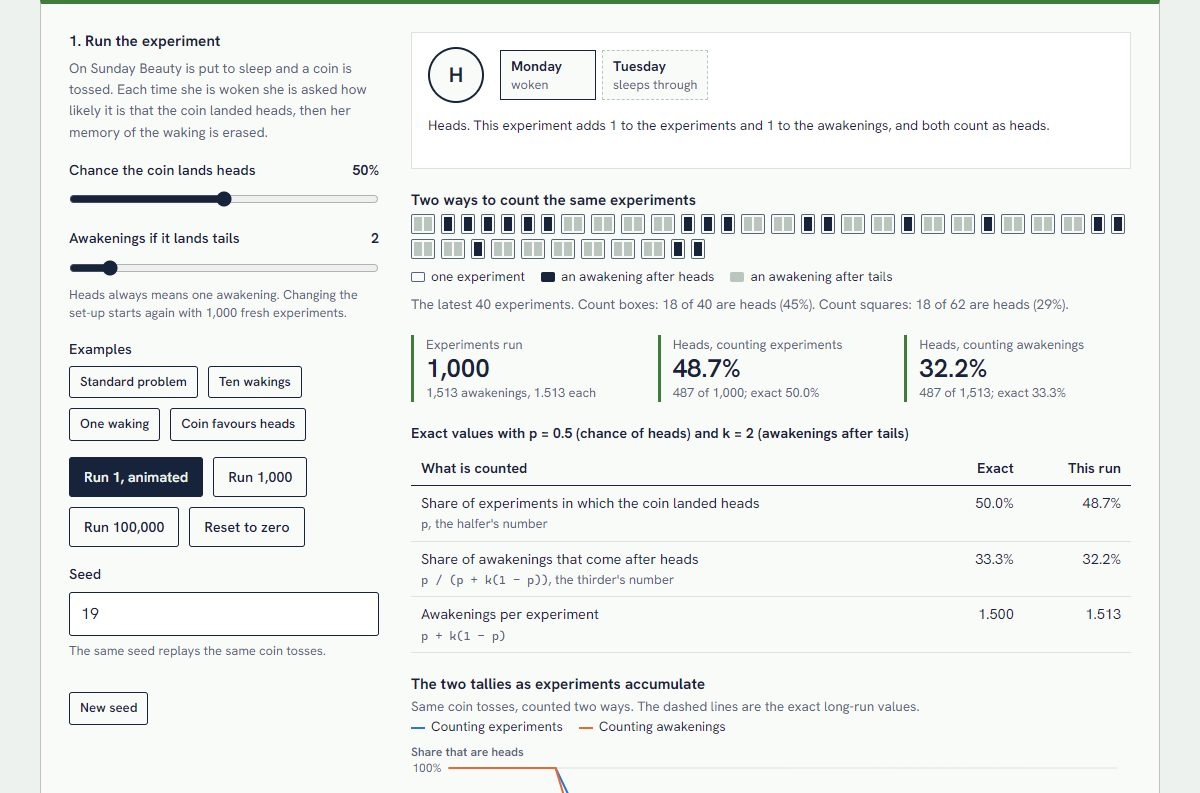
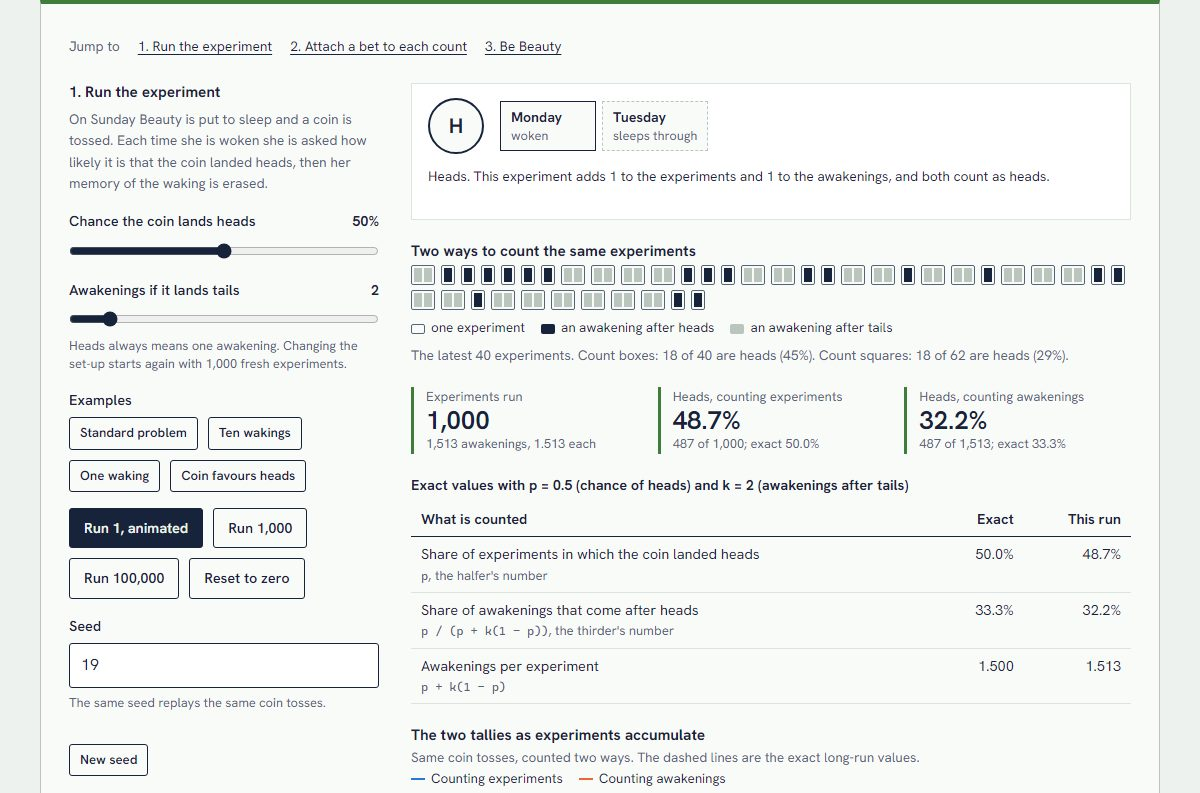
Review project 19: keyboard price steps, jump links, clearer scoring text

diff --git a/365projects/19/index.html b/365projects/19/index.html
@@ -11,6 +11,9 @@
   <link rel="stylesheet" href="../../assets/site.css">
   <link rel="stylesheet" href="../kit/kit.css">
   <style>
+    .sb-jump { display: flex; flex-wrap: wrap; gap: 4px 18px; align-items: baseline; }
+    .sb-jump a { padding: 4px 0; }
+    .sb-part h2 { scroll-margin-top: 12px; }
     .sb-part + .sb-part { border-top: 1px solid var(--rule); padding-top: 22px; }
     .sb-head { display: grid; gap: 6px; }
     .sb-stage { display: grid; grid-template-columns: auto minmax(0, 1fr); gap: 12px 16px; align-items: center; }
@@ -33,7 +36,9 @@
     .sb-tape .t i { background: var(--rule); }
     .sb-key i.sb-box { background: none; border: 1px solid var(--slate); }
     .sb-tbl .tbl th { white-space: normal; vertical-align: bottom; }
+    .sb-tbl .tbl td { position: relative; } /* keeps the screen-reader-only "(lowest)" inside its cell */
     .sb-f { display: block; font-size: 0.82rem; color: var(--slate); }
+    @media (max-width: 420px) { .p-sec .eq { font-size: 0.9em; } }
     /* The serif has no true italic, and the slanted letters lean into whatever follows them. */
     .p-sec var { margin-right: 0.1em; }
   </style>
@@ -59,7 +64,7 @@
       <p>On Sunday night Beauty is put to sleep and a fair coin is tossed. If it lands heads she is woken on Monday and the experiment ends. If it lands tails she is woken on Monday, given a drug that erases her memory of that waking, and woken again on Tuesday. She knows all of this in advance. Each time she wakes she is asked one question: how confident are you that the coin landed heads? Adam Elga put the problem to philosophers in 2000, crediting the name to Robert Stalnaker; a version had already appeared in Michele Piccione and Ariel Rubinstein's work on decisions with imperfect recall.</p>
       <p><strong>The thirder's argument</strong> is Elga's. There are three situations Beauty might be in when she wakes: heads and Monday, tails and Monday, tails and Tuesday. If she were told the coin landed tails, she would have no reason to favour Monday over Tuesday, so those two deserve equal confidence. If she were told it is Monday, the coin toss might as well not have happened yet (the experimenters could toss it on Monday night without changing anything she experiences), so heads and tails deserve equal confidence. Three situations, each as likely as the next: her credence in heads should be 1/3.</p>
       <p><strong>The halfer's argument</strong> is David Lewis's. On Sunday Beauty's credence in heads is 1/2, and everyone agrees it should be. Between Sunday and her waking she learns nothing she did not already expect: she was certain to be woken at least once whichever way the coin fell. Credences should change only in response to new evidence, and there is none that bears on the coin, so her credence should still be 1/2. Lewis accepted the cost of this view: if Beauty is then told it is Monday, a halfer who updates in the ordinary way becomes 2/3 confident in heads, for a fair coin that may not have been tossed yet.</p>
-      <p>The dispute matters because Beauty's uncertainty is of an unusual kind. She knows exactly how the world works. What she does not know is where she is in it: which day it is, and which waking this is. The same kind of <strong>self-locating belief</strong> appears whenever theories differ in how many observers like you they contain, which is why the problem keeps turning up in cosmology, in the Doomsday argument, and in arguments about whether we live in a simulation. It also tests what a credence is for. If a credence is a betting price, or a guess to be scored for accuracy, then it should matter how the bets and the scores are counted, and the tool shows that it does. What the tool cannot show is which way of counting is the right one for belief.</p>
+      <p>The dispute matters because Beauty's uncertainty is of an unusual kind. She knows exactly how the world works. What she does not know is where she is in it: which day it is, and which waking this is. The same kind of <strong>self-locating belief</strong> appears whenever theories differ in how many observers like you they contain, which is why the problem keeps turning up in cosmology and in the Doomsday argument. It also tests what a credence is for. If a credence is a betting price, or a guess to be scored for accuracy, then it should matter how the bets and the scores are counted, and the tool shows that it does. What the tool cannot show is which way of counting is the right one for belief.</p>
     </section>
 
     <section class="p-sec">
@@ -77,9 +82,9 @@
       <p class="eq"><var>p</var>(1 − <var>c</var>) − (1 − <var>p</var>)<var>k</var><var>c</var> = <var>p</var> − <var>c</var>(<var>p</var> + <var>k</var>(1 − <var>p</var>))</p>
       <p>which is zero at <var>c</var> = <var>p</var> / (<var>p</var> + <var>k</var>(1 − <var>p</var>)). So the first bet breaks even at the halfer's number and the second at the thirder's. The tool works out the realised profit from the two tallies, which is why moving the price re-prices the experiments already run instead of running new ones.</p>
       <h3>The scoring rule</h3>
-      <p>In part 3 an answer <var>x</var> is penalised by the Brier rule, (<var>x</var> − 1)² if the coin landed heads and <var>x</var>² if it landed tails. This rule is <em>proper</em>: against an ordinary chance <var>q</var> of heads, the expected penalty <var>q</var>(<var>x</var> − 1)² + (1 − <var>q</var>)<var>x</var>² is smallest at <var>x</var> = <var>q</var>, so it rewards saying what you believe. Because Beauty cannot tell her wakings apart she gives the same answer at each one. Scored once per experiment, and then at every awakening (averaged over awakenings), the expected penalty is</p>
-      <p class="eq">once per experiment: <var>p</var>(1 − <var>x</var>)² + (1 − <var>p</var>)<var>x</var>²<br>every awakening: [<var>p</var>(1 − <var>x</var>)² + <var>k</var>(1 − <var>p</var>)<var>x</var>²] / (<var>p</var> + <var>k</var>(1 − <var>p</var>))</p>
-      <p>Setting each derivative to zero gives <var>x</var> = <var>p</var> for the first and <var>x</var> = <var>p</var> / (<var>p</var> + <var>k</var>(1 − <var>p</var>)) for the second. The table scores your answer, the halfer's and the thirder's on the same simulated experiments.</p>
+      <p>In part 3 an answer <var>x</var> is penalised by the Brier rule, (<var>x</var> − 1)² if the coin landed heads and <var>x</var>² if it landed tails. This rule is <em>proper</em>: against an ordinary chance <var>q</var> of heads, the expected penalty <var>q</var>(<var>x</var> − 1)² + (1 − <var>q</var>)<var>x</var>² is smallest at <var>x</var> = <var>q</var>, so it rewards saying what you believe. Because Beauty cannot tell her wakings apart she gives the same answer at each one. Score that answer once per experiment and the expected penalty is the first line below. Score it at every awakening and tails counts <var>k</var> times: the expected total for an experiment is <var>p</var>(1 − <var>x</var>)² + <var>k</var>(1 − <var>p</var>)<var>x</var>², and dividing by the expected number of awakenings gives the long-run average penalty per awakening, the second line.</p>
+      <p class="eq">once per experiment:<br>&nbsp;&nbsp;&nbsp;<var>p</var>(1 − <var>x</var>)² + (1 − <var>p</var>)<var>x</var>²<br>every awakening:<br>&nbsp;&nbsp;&nbsp;[<var>p</var>(1 − <var>x</var>)² + <var>k</var>(1 − <var>p</var>)<var>x</var>²] / (<var>p</var> + <var>k</var>(1 − <var>p</var>))</p>
+      <p>Setting each derivative to zero gives <var>x</var> = <var>p</var> for the first and <var>x</var> = <var>p</var> / (<var>p</var> + <var>k</var>(1 − <var>p</var>)) for the second. The table scores your answer, the halfer's and the thirder's on the same simulated experiments, which part 3 draws from a generator of its own (the seed plus one). Its first two rows average the penalties over experiments and its last two over awakenings.</p>
       <h3>What each position says in general</h3>
       <p>The thirder gives every awakening equal standing, so heads-and-first-day has weight <var>p</var> and each of the <var>k</var> tails awakenings has weight 1 − <var>p</var>. That gives <var>p</var> / (<var>p</var> + <var>k</var>(1 − <var>p</var>)) on waking and <var>p</var> on being told it is the first day. The halfer keeps <var>p</var> on waking and spreads 1 − <var>p</var> evenly over the tails awakenings, which gives <var>p</var> / (<var>p</var> + (1 − <var>p</var>) / <var>k</var>) on being told it is the first day: 2/3 in the standard problem.</p>
     </section>
@@ -88,8 +93,8 @@
       <h2>What this cannot tell you</h2>
       <ul>
         <li><strong>Which answer is right.</strong> The simulation produces two frequencies and neither side disputes either of them. The disagreement is over which of them, if either, Beauty's degree of belief should equal, and no amount of counting settles that.</li>
-        <li><strong>That bets reveal credence.</strong> A halfer can turn down the 0.40 ticket at every awakening without changing her mind about the coin: she knows the bet will be placed twice if the coin landed tails, so it is one bet with stakes that depend on the outcome. Thirders reply that a credence which never shows up in fair betting prices is not doing its job. The tool shows the arithmetic both sides accept, not who is right about what it means.</li>
-        <li><strong>That accuracy settles it either.</strong> The scoring result is the counting result again. Minimising expected total inaccuracy across awakenings favours 1/3 and minimising expected average inaccuracy favours 1/2, as Kierland and Monton showed. Choosing between the two is the original question in different clothes.</li>
+        <li><strong>That bets reveal credence.</strong> A halfer can turn down the 0.40 ticket at every awakening without changing her mind about the coin: she knows the bet will be placed twice if the coin landed tails, so it is one bet with stakes that depend on the outcome. Bradley and Leitgeb argue that this is a case in which fair betting odds and credences come apart. Hitchcock argues the other way: a halfer who bets at her credence, once on Sunday and once at each awakening, can be made to lose whichever way the coin lands. The tool shows the arithmetic both sides accept, not who is right about what it means.</li>
+        <li><strong>That accuracy settles it either.</strong> The scoring result is the counting result again. Kierland and Monton showed that minimising the expected total inaccuracy over an experiment's awakenings favours 1/3, and minimising the expected average over them favours 1/2. Those are the tool's two scorings: the average within an experiment is the single penalty that scoring once per experiment counts, and the every-awakening rows are the total divided by the number of awakenings in the whole run, which has the same best answer as the total. Choosing between the two is the original question in different clothes.</li>
         <li><strong>Whether a one-off credence has to match a long-run frequency.</strong> In the story the experiment happens once. The tool repeats it a hundred thousand times and reads off shares. Whether a rational degree of belief in a single case must equal a frequency over imagined repetitions is itself contested.</li>
         <li><strong>Anything about the other positions.</strong> "Double halfers" hold that the answer is 1/2 both on waking and on being told it is Monday, and some writers argue the question is ambiguous as posed. The tool models only the two classic answers and does not simulate what Beauty should think once told the day.</li>
         <li><strong>How to reason in real anthropic cases.</strong> Here the number of awakenings on each branch is known exactly. In cosmology or the Doomsday argument, what counts as "an observer like me" is the hard part, and nothing here helps choose it.</li>
@@ -103,7 +108,7 @@
         <li>Play part 3 as Beauty would live it: wake the visitor again and again without saying which experiment each waking belongs to, and reveal everything only at the end.</li>
         <li>Walk through Hitchcock's Dutch book step by step, with one bet placed on Sunday and one at each awakening, to show which combinations of prices guarantee a loss.</li>
         <li>Add the logarithmic scoring rule next to the Brier rule and check that the two best answers do not move.</li>
-        <li>Model the variants: Bostrom's extreme version with a million awakenings, duplication instead of memory loss, and the absent-minded driver.</li>
+        <li>Model the variants: Bostrom's extreme version, in which tails means being woken on a million further days, duplication instead of memory loss, and the absent-minded driver.</li>
         <li>Let the visitor choose a decision theory as well as a credence. Briggs argues that whether a halfer or a thirder can be made to lose money depends on which decision theory the credence is paired with.</li>
       </ul>
     </section>
@@ -113,13 +118,13 @@
       <ul class="refs">
         <li>Elga, A. (2000). Self-locating belief and the Sleeping Beauty problem. <em>Analysis</em>, 60(2), 143-147.</li>
         <li>Lewis, D. (2001). Sleeping Beauty: reply to Elga. <em>Analysis</em>, 61(3), 171-176.</li>
-        <li>Piccione, M., and Rubinstein, A. (1997). On the interpretation of decision problems with imperfect recall. <em>Games and Economic Behavior</em>, 20, 3-24.</li>
-        <li>Hitchcock, C. (2004). Beauty and the bets. <em>Synthese</em>.</li>
-        <li>Kierland, B., and Monton, B. (2005). Minimizing inaccuracy for self-locating beliefs. <em>Philosophy and Phenomenological Research</em>.</li>
-        <li>Bradley, D., and Leitgeb, H. (2006). When betting odds and credences come apart: more worries for Dutch book arguments. <em>Analysis</em>.</li>
-        <li>Bostrom, N. (2007). Sleeping Beauty and self-location: a hybrid model. <em>Synthese</em>.</li>
-        <li>Briggs, R. (2010). Putting a value on Beauty. In <em>Oxford Studies in Epistemology</em>, volume 3.</li>
-        <li>Titelbaum, M. G. (2013). Ten reasons to care about the Sleeping Beauty problem. <em>Philosophy Compass</em>.</li>
+        <li>Piccione, M., and Rubinstein, A. (1997). On the interpretation of decision problems with imperfect recall. <em>Games and Economic Behavior</em>, 20(1), 3-24.</li>
+        <li>Hitchcock, C. (2004). Beauty and the bets. <em>Synthese</em>, 139(3), 405-420.</li>
+        <li>Kierland, B., and Monton, B. (2005). Minimizing inaccuracy for self-locating beliefs. <em>Philosophy and Phenomenological Research</em>, 70(2), 384-395.</li>
+        <li>Bradley, D., and Leitgeb, H. (2006). When betting odds and credences come apart: more worries for Dutch book arguments. <em>Analysis</em>, 66(2), 119-127.</li>
+        <li>Bostrom, N. (2007). Sleeping Beauty and self-location: a hybrid model. <em>Synthese</em>, 157(1), 59-78.</li>
+        <li>Briggs, R. (2010). Putting a value on Beauty. In <em>Oxford Studies in Epistemology</em>, volume 3, 3-34. Oxford University Press.</li>
+        <li>Titelbaum, M. G. (2013). Ten reasons to care about the Sleeping Beauty problem. <em>Philosophy Compass</em>, 8(11), 1003-1017.</li>
       </ul>
     </section>
   </main>

diff --git a/365projects/19/app.js b/365projects/19/app.js
@@ -20,7 +20,9 @@ let last = null; // the latest finished experiment
 let anim = null; // a single experiment being played out: { timers, finish }
 let me;         // part 3: { r, tally, text }
 
-const head = (title, text) => el("div", { class: "sb-head" }, el("h3", { text: title }), el("p", { class: "small muted", text }));
+// Each part starts with a heading that the jump links at the top of the tool point to.
+const PARTS = [["sb-run", "1. Run the experiment"], ["sb-bets", "2. Attach a bet to each count"], ["sb-beauty", "3. Be Beauty"]];
+const head = (i, text) => el("div", { class: "sb-head" }, el("h2", { id: PARTS[i][0], text: PARTS[i][1] }), el("p", { class: "small muted", text }));
 
 /* ================================================= 1. the experiment */
 
@@ -46,7 +48,9 @@ seedField.input.addEventListener("input", () => {
 
 const coin = el("div", { class: "sb-coin", "aria-hidden": "true", text: "?" });
 const days = el("div", { class: "sb-days" });
-const caption = el("p", { class: "sb-cap small", role: "status" });
+const caption = el("p", { class: "sb-cap small" });
+// Announced to screen readers once per run. The caption changes at every step of the animation, which is too often.
+const said = el("p", { class: "sr-only", role: "status" });
 const tape = el("div", { class: "sb-tape", role: "img" });
 const tapeCap = el("p", { class: "small muted" });
 const sN = stat("Experiments run");
@@ -57,7 +61,7 @@ const convBox = el("div");
 
 const part1 = el("div", { class: "tool-grid sb-part" },
   el("div", { class: "controls" },
-    head("1. Run the experiment", "On Sunday Beauty is put to sleep and a coin is tossed. Each time she is woken she is asked how likely it is that the coin landed heads, then her memory of the waking is erased."),
+    head(0, "On Sunday Beauty is put to sleep and a coin is tossed. Each time she is woken she is asked how likely it is that the coin landed heads, then her memory of the waking is erased."),
     pSlider.el, kSlider.el,
     el("div", { class: "field" }, el("div", { class: "lab" }, el("span", { text: "Examples" })),
       el("div", { class: "row" }, preset("Standard problem", 0.5, 2), preset("Ten wakings", 0.5, 10), preset("One waking", 0.5, 1), preset("Coin favours heads", 0.8, 2))),
@@ -69,7 +73,7 @@ const part1 = el("div", { class: "tool-grid sb-part" },
     seedField.el, seedMsg,
     el("div", { class: "row" }, button("New seed", () => { state.seed = randomSeed(); seedField.value = state.seed; seedMsg.replaceChildren(); restart(); }, { small: true }))),
   el("div", { class: "out" },
-    el("div", { class: "panel sb-stage" }, coin, days, caption),
+    el("div", { class: "panel sb-stage" }, coin, days, caption), said,
     el("div", {}, el("p", { class: "chart-title", text: "Two ways to count the same experiments" }), tape,
       el("div", { class: "chart-legend sb-key" },
         el("span", {}, el("i", { class: "sb-box" }), "one experiment"),
@@ -162,6 +166,9 @@ function renderRun() {
   sN.set(fmt.int(n), n ? `${fmt.int(t.awakenings)} awakenings, ${fmt.num(t.awakenings / n, 3)} each` : "run one to begin");
   sE.set(pct1(s.byExperiment), n ? `${fmt.int(t.heads)} of ${fmt.int(n)}; exact ${pct1(x.byExperiment)}` : `exact ${pct1(x.byExperiment)}`);
   sA.set(pct1(s.byAwakening), n ? `${fmt.int(t.headsAwakenings)} of ${fmt.int(t.awakenings)}; exact ${pct1(x.byAwakening)}` : `exact ${pct1(x.byAwakening)}`);
+  said.textContent = n
+    ? `${fmt.int(n)} ${n === 1 ? "experiment" : "experiments"} run, the latest ${last.heads ? "heads" : "tails"}. Heads in ${pct1(s.byExperiment)} of experiments and ${pct1(s.byAwakening)} of awakenings.`
+    : "No experiments yet.";
 
   // The tape: one outlined box per experiment, one square per awakening.
   const rec = run.recent;
@@ -199,7 +206,7 @@ function renderRun() {
 /* ======================================================== 2. the bets */
 
 const priceSlider = slider({
-  label: "Price of the ticket", min: 0.01, max: 0.99, step: "any", value: state.price, format: price3,
+  label: "Price of the ticket", min: 0.01, max: 0.99, step: 0.001, value: state.price, format: price3,
   hint: "The ticket pays 1 if the coin landed heads and nothing if it landed tails.",
   onInput: (v) => { state.price = v; renderBets(); },
 });
@@ -210,7 +217,7 @@ const betChartBox = el("div");
 
 const part2 = el("div", { class: "tool-grid sb-part" },
   el("div", { class: "controls" },
-    head("2. Attach a bet to each count", "Beauty is offered a ticket on heads. Sell it to her once per experiment, or at every awakening: the experiments above are the same, only the number of tickets changes."),
+    head(1, "Beauty is offered a ticket on heads. Sell it to her once per experiment, or at every awakening: the experiments above are the same, only the number of tickets changes."),
     priceSlider.el,
     el("div", { class: "row" },
       button("Halfer's price", () => setPrice(exact(setup()).byExperiment), { small: true }),
@@ -220,7 +227,7 @@ const part2 = el("div", { class: "tool-grid sb-part" },
 
 const betChart = chart(betChartBox, {
   title: "Expected profit per experiment at each ticket price",
-  subtitle: "Exact. Each line crosses zero at the price where that bet breaks even.",
+  subtitle: "Exact. The dot on each line marks the price where that bet breaks even.",
   label: "Line chart of Beauty's expected profit per experiment against the ticket price, for each way of selling the ticket",
   height: 280,
   x: { label: "Ticket price", domain: [0, 1], format: (v) => fmt.num(v, 2) },
@@ -255,16 +262,15 @@ function renderBets() {
 
   const A = exact(setup()).awakenings;
   const xs = Array.from({ length: 101 }, (_, i) => i / 100);
-  const label = (v, above) => ({ type: "text", x: v, y: 0, text: price3(v), anchor: v > 0.85 ? "end" : "start", dx: v > 0.85 ? -8 : 8, dy: above ? -9 : 18 });
   betChart.update({
     series: [
-      { name: "One ticket per experiment", data: xs.map((c) => [c, state.p - c]), color: 0 },
-      { name: "One ticket at every awakening", data: xs.map((c) => [c, state.p - c * A]), color: 1 },
+      { name: `One ticket per experiment: breaks even at ${price3(hi)}`, data: xs.map((c) => [c, state.p - c]), color: 0 },
+      { name: `One ticket at every awakening: breaks even at ${price3(lo)}`, data: xs.map((c) => [c, state.p - c * A]), color: 1 },
     ],
     marks: [
       { type: "vline", x: state.price, text: `price ${price3(state.price)}` },
-      { type: "point", x: hi, y: 0 }, label(hi, true),
-      ...(same(lo, hi) ? [] : [{ type: "point", x: lo, y: 0 }, label(lo, false)]),
+      { type: "point", x: hi, y: 0 },
+      ...(same(lo, hi) ? [] : [{ type: "point", x: lo, y: 0 }]),
     ],
   });
 }
@@ -283,7 +289,7 @@ const scoreChartBox = el("div");
 
 const part3 = el("div", { class: "tool-grid sb-part" },
   el("div", { class: "controls" },
-    head("3. Be Beauty", "You have just been woken. You do not know what day it is, or whether you have been woken before. Give your answer, then see how it scores when each experiment is scored once and when every awakening is scored."),
+    head(2, "You have just been woken. You do not know what day it is, or whether you have been woken before. Give your answer, then see how it scores when each experiment is scored once and when every awakening is scored."),
     credSlider.el,
     el("div", { class: "row" },
       button("Lock in and reveal", () => lockIn(1), { primary: true }),
@@ -310,7 +316,7 @@ function lockIn(times) {
   if (times > 1) me.text = `${fmt.int(times)} more experiments played. Move the slider to see how any other answer would have scored on the same coin tosses.`;
   else if (e.heads) me.text = `The coin landed heads, so that was your only awakening. Your penalty is ${sum}, and it counts once whichever way the scoring is done.`;
   else if (e.awakenings === 1) me.text = `The coin landed tails, and with this set-up tails also means one awakening. Your penalty is ${sum}, counted once either way.`;
-  else me.text = `The coin landed tails. You were woken ${e.awakenings} times and, remembering nothing, gave the same answer each time. Each answer costs ${sum}. Scored once for the experiment that is ${fmt.num(pen, 3)}; scored at every awakening it is ${e.awakenings} × ${fmt.num(pen, 3)} = ${fmt.num(e.awakenings * pen, 3)}.`;
+  else me.text = `The coin landed tails. You were woken ${e.awakenings} times and, remembering nothing, gave the same answer each time. Each answer costs ${sum}. Scored once for the experiment, that is one penalty of ${fmt.num(pen, 3)}; scored at every awakening, it is ${e.awakenings} penalties of ${fmt.num(pen, 3)}.`;
   renderBeauty();
 }
 
@@ -322,7 +328,7 @@ function renderBeauty() {
   const answers = [state.credence, x.halfer.waking, x.thirder.waking];
   const row = (q, values) => {
     const best = Math.min(...values);
-    const [you, half, third] = values.map((v) => (v == null ? "–" : el(v - best < 1e-12 ? "strong" : "span", { text: fmt.num(v, 3) })));
+    const [you, half, third] = values.map((v) => (v == null ? "–" : (v - best < 1e-12 ? el("strong", {}, fmt.num(v, 3), el("span", { class: "sr-only", text: " (lowest)" })) : fmt.num(v, 3))));
     return { q, you, half, third };
   };
   const sim = answers.map((a) => brierTally(t, a)), long = answers.map((a) => brierExact(setup(), a));
@@ -338,25 +344,27 @@ function renderBeauty() {
   }));
   scoreMsg.replaceChildren(note("", same(x.halfer.waking, x.thirder.waking)
     ? `With one awakening either way there is nothing to disagree about: the best answer is ${pct1(x.halfer.waking)} under both scorings.`
-    : `Because you cannot tell one waking from another, your answer is the same every time, so each row is one fixed answer scored on every experiment played so far. In the long run the lowest penalty goes to ${pct1(x.halfer.waking)} when each experiment is scored once, and to ${pct1(x.thirder.waking)} when every awakening is scored.`));
+    : `Because you cannot tell one waking from another, your answer is the same every time, so each column is one fixed answer scored on every experiment played so far, and moving the slider rescores your column on the same coin tosses. Each figure is an average: over experiments in the first two rows, over awakenings in the last two. In the long run the lowest penalty goes to ${pct1(x.halfer.waking)} when each experiment is scored once, and to ${pct1(x.thirder.waking)} when every awakening is scored.`));
 
   const cs = Array.from({ length: 101 }, (_, i) => i / 100);
   const curve = cs.map((c) => [c, brierExact(setup(), c)]);
-  const low = (v, key) => ({ type: "text", x: v, y: brierExact(setup(), v)[key], text: pct1(v), anchor: v < 0.1 ? "start" : v > 0.9 ? "end" : "middle", dy: 19 });
   scoreChart.update({
     series: [
-      { name: "Scored once per experiment", data: curve.map(([c, s]) => [c, s.perExperiment]), color: 0 },
-      { name: "Scored at every awakening", data: curve.map(([c, s]) => [c, s.perAwakening]), color: 1 },
+      { name: `Scored once per experiment: lowest at ${pct1(x.halfer.waking)}`, data: curve.map(([c, s]) => [c, s.perExperiment]), color: 0 },
+      { name: `Scored at every awakening: lowest at ${pct1(x.thirder.waking)}`, data: curve.map(([c, s]) => [c, s.perAwakening]), color: 1 },
     ],
     marks: [
       { type: "vline", x: state.credence, text: `your answer ${fmt.pct(state.credence, 0)}` },
-      { type: "point", x: x.halfer.waking, y: brierExact(setup(), x.halfer.waking).perExperiment }, low(x.halfer.waking, "perExperiment"),
-      ...(same(x.halfer.waking, x.thirder.waking) ? [] : [{ type: "point", x: x.thirder.waking, y: brierExact(setup(), x.thirder.waking).perAwakening }, low(x.thirder.waking, "perAwakening")]),
+      { type: "point", x: x.halfer.waking, y: brierExact(setup(), x.halfer.waking).perExperiment },
+      ...(same(x.halfer.waking, x.thirder.waking) ? [] : [{ type: "point", x: x.thirder.waking, y: brierExact(setup(), x.thirder.waking).perAwakening }]),
     ],
   });
 }
 
 /* ============================================================== start */
 
-$("#app").append(part1, part2, part3);
+// The tool is three screens long on a phone, so it opens with links to its parts.
+$("#app").append(
+  el("nav", { class: "sb-jump small", "aria-label": "Parts of the tool" }, el("span", { class: "muted", text: "Jump to" }), PARTS.map(([id, title]) => el("a", { href: `#${id}`, text: title }))),
+  part1, part2, part3);
 restart();
